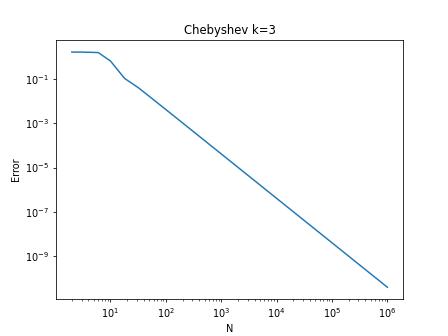
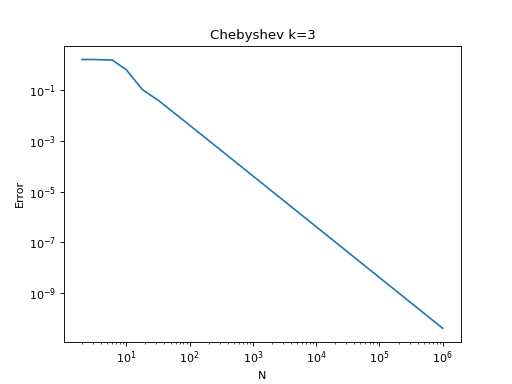
Deploying to master from  @ 42ef7edd94a729cdad58e4e2e1ef403c7aa0caa0 🚀

diff --git a/FunctionIntegrator/index.html b/FunctionIntegrator/index.html
@@ -66,13 +66,13 @@ h400000v40h-400000z'/></svg></span></span></span><span class=vlist-s ></span>
 <p>and the result compared to the analytical solution of <span class=katex ><span class=katex-mathml ><math xmlns="http://www.w3.org/1998/Math/MathML"><semantics><mrow><mn>1</mn></mrow><annotation encoding="application/x-tex">1</annotation></semantics></math></span><span class=katex-html  aria-hidden=true ><span class=base ><span class=strut  style="height:0.64444em;vertical-align:0em;"></span><span class=mord >1</span></span></span></span>. The value being printed is difference between the computed solution and the analytical solution.</p>
 <span class=katex ><span class=katex-mathml ><math xmlns="http://www.w3.org/1998/Math/MathML"><semantics><mrow><mi>k</mi><mo>=</mo><mn>1</mn></mrow><annotation encoding="application/x-tex">k=1</annotation></semantics></math></span><span class=katex-html  aria-hidden=true ><span class=base ><span class=strut  style="height:0.69444em;vertical-align:0em;"></span><span class="mord mathdefault" style="margin-right:0.03148em;">k</span><span class=mspace  style="margin-right:0.2777777777777778em;"></span><span class=mrel >=</span><span class=mspace  style="margin-right:0.2777777777777778em;"></span></span><span class=base ><span class=strut  style="height:0.64444em;vertical-align:0em;"></span><span class=mord >1</span></span></span></span>: <pre><code class="julia hljs"><span class=hljs-keyword >using</span> FunctionIntegrator
 a = abs(chebyshev_quadrature(x -&gt; cos(x), <span class=hljs-number >1000</span>, <span class=hljs-number >1</span>, <span class=hljs-number >0</span>, <span class=hljs-literal >pi</span>/<span class=hljs-number >2</span>) - <span class=hljs-number >1</span>);
-show(a)</code></pre> <pre><code class="plaintext hljs">3.229819232064557e-7</code></pre>
+show(a)</code></pre> <pre><code class="plaintext hljs">3.229819229844111e-7</code></pre>
 <span class=katex ><span class=katex-mathml ><math xmlns="http://www.w3.org/1998/Math/MathML"><semantics><mrow><mi>k</mi><mo>=</mo><mn>2</mn></mrow><annotation encoding="application/x-tex">k=2</annotation></semantics></math></span><span class=katex-html  aria-hidden=true ><span class=base ><span class=strut  style="height:0.69444em;vertical-align:0em;"></span><span class="mord mathdefault" style="margin-right:0.03148em;">k</span><span class=mspace  style="margin-right:0.2777777777777778em;"></span><span class=mrel >=</span><span class=mspace  style="margin-right:0.2777777777777778em;"></span></span><span class=base ><span class=strut  style="height:0.64444em;vertical-align:0em;"></span><span class=mord >2</span></span></span></span>: <pre><code class="julia hljs"><span class=hljs-keyword >using</span> FunctionIntegrator
 a = abs(chebyshev_quadrature(x -&gt; cos(x), <span class=hljs-number >1000</span>, <span class=hljs-number >2</span>, <span class=hljs-number >0</span>, <span class=hljs-literal >pi</span>/<span class=hljs-number >2</span>) - <span class=hljs-number >1</span>);
 show(a)</code></pre> <pre><code class="plaintext hljs">6.446739609922147e-7</code></pre>
 <span class=katex ><span class=katex-mathml ><math xmlns="http://www.w3.org/1998/Math/MathML"><semantics><mrow><mi>k</mi><mo>=</mo><mn>3</mn></mrow><annotation encoding="application/x-tex">k=3</annotation></semantics></math></span><span class=katex-html  aria-hidden=true ><span class=base ><span class=strut  style="height:0.69444em;vertical-align:0em;"></span><span class="mord mathdefault" style="margin-right:0.03148em;">k</span><span class=mspace  style="margin-right:0.2777777777777778em;"></span><span class=mrel >=</span><span class=mspace  style="margin-right:0.2777777777777778em;"></span></span><span class=base ><span class=strut  style="height:0.64444em;vertical-align:0em;"></span><span class=mord >3</span></span></span></span>: <pre><code class="julia hljs"><span class=hljs-keyword >using</span> FunctionIntegrator
 a = abs(chebyshev_quadrature(x -&gt; cos(x), <span class=hljs-number >1000</span>, <span class=hljs-number >3</span>, <span class=hljs-number >0</span>, <span class=hljs-literal >pi</span>/<span class=hljs-number >2</span>) - <span class=hljs-number >1</span>);
-show(a)</code></pre> <pre><code class="plaintext hljs">6.453189426158801e-7</code></pre>
+show(a)</code></pre> <pre><code class="plaintext hljs">6.453189421717909e-7</code></pre>
 <span class=katex ><span class=katex-mathml ><math xmlns="http://www.w3.org/1998/Math/MathML"><semantics><mrow><mi>k</mi><mo>=</mo><mn>4</mn></mrow><annotation encoding="application/x-tex">k=4</annotation></semantics></math></span><span class=katex-html  aria-hidden=true ><span class=base ><span class=strut  style="height:0.69444em;vertical-align:0em;"></span><span class="mord mathdefault" style="margin-right:0.03148em;">k</span><span class=mspace  style="margin-right:0.2777777777777778em;"></span><span class=mrel >=</span><span class=mspace  style="margin-right:0.2777777777777778em;"></span></span><span class=base ><span class=strut  style="height:0.64444em;vertical-align:0em;"></span><span class=mord >4</span></span></span></span>: <pre><code class="julia hljs"><span class=hljs-keyword >using</span> FunctionIntegrator
 a = abs(chebyshev_quadrature(x -&gt; cos(x), <span class=hljs-number >1000</span>, <span class=hljs-number >4</span>, <span class=hljs-number >0</span>, <span class=hljs-literal >pi</span>/<span class=hljs-number >2</span>) - <span class=hljs-number >1</span>);
 show(a)</code></pre> <pre><code class="plaintext hljs">3.226596516636704e-7</code></pre>
@@ -119,7 +119,7 @@ PyPlot.plot(x,y)
 PyPlot.savefig(joinpath(<span class=hljs-meta >@OUTPUT</span>, <span class=hljs-string >&quot;laguerre_plot.png&quot;</span>), dpi=<span class=hljs-number >80</span>)</code></pre> <img src="/assets/FunctionIntegrator/code/output/laguerre_plot.png" alt="">
 <br> <span class=katex ><span class=katex-mathml ><math xmlns="http://www.w3.org/1998/Math/MathML"><semantics><mrow><mi>k</mi><mo>=</mo><mn>1</mn></mrow><annotation encoding="application/x-tex">k=1</annotation></semantics></math></span><span class=katex-html  aria-hidden=true ><span class=base ><span class=strut  style="height:0.69444em;vertical-align:0em;"></span><span class="mord mathdefault" style="margin-right:0.03148em;">k</span><span class=mspace  style="margin-right:0.2777777777777778em;"></span><span class=mrel >=</span><span class=mspace  style="margin-right:0.2777777777777778em;"></span></span><span class=base ><span class=strut  style="height:0.64444em;vertical-align:0em;"></span><span class=mord >1</span></span></span></span>: <pre><code class="julia hljs"><span class=hljs-keyword >using</span> FunctionIntegrator
 a = abs(laguerre_quadrature(x -&gt; x*exp(-x), <span class=hljs-number >100</span>, <span class=hljs-number >1</span>)-<span class=hljs-number >1</span>)
-show(a)</code></pre> <pre><code class="plaintext hljs">3.219646771412954e-15</code></pre>
+show(a)</code></pre> <pre><code class="plaintext hljs">3.1086244689504383e-15</code></pre>
 <span class=katex ><span class=katex-mathml ><math xmlns="http://www.w3.org/1998/Math/MathML"><semantics><mrow><mi>k</mi><mo>=</mo><mn>2</mn></mrow><annotation encoding="application/x-tex">k=2</annotation></semantics></math></span><span class=katex-html  aria-hidden=true ><span class=base ><span class=strut  style="height:0.69444em;vertical-align:0em;"></span><span class="mord mathdefault" style="margin-right:0.03148em;">k</span><span class=mspace  style="margin-right:0.2777777777777778em;"></span><span class=mrel >=</span><span class=mspace  style="margin-right:0.2777777777777778em;"></span></span><span class=base ><span class=strut  style="height:0.64444em;vertical-align:0em;"></span><span class=mord >2</span></span></span></span>: <pre><code class="julia hljs"><span class=hljs-keyword >using</span> FunctionIntegrator
 a = abs(laguerre_quadrature(x -&gt; x, <span class=hljs-number >100</span>, <span class=hljs-number >2</span>)-<span class=hljs-number >1</span>)
 show(a)</code></pre> <pre><code class="plaintext hljs">3.1086244689504383e-15</code></pre>
@@ -130,11 +130,11 @@ show(a)</code></pre> <pre><code class="plaintext hljs">0.0</code></pre>
 <h3 id=lobatto_quadrature ><a href="#lobatto_quadrature">lobatto_quadrature</a></h3>  In this section, integral 1 is being approximated and the result compared to the analytical result. </p>
 <pre><code class="julia hljs"><span class=hljs-keyword >using</span> FunctionIntegrator
 a = abs(lobatto_quadrature(x -&gt; cos(x), <span class=hljs-number >1000</span>, <span class=hljs-number >0</span>, <span class=hljs-literal >pi</span>/<span class=hljs-number >2</span>)-<span class=hljs-number >1</span>)
-show(a)</code></pre> <pre><code class="plaintext hljs">6.661338147750939e-16</code></pre>
+show(a)</code></pre> <pre><code class="plaintext hljs">8.881784197001252e-16</code></pre>
 <h3 id=radau_quadrature ><a href="#radau_quadrature">radau_quadrature</a></h3>  In this section, integral 1 is being approximated and the result compared to the analytical result. </p>
 <pre><code class="julia hljs"><span class=hljs-keyword >using</span> FunctionIntegrator
 a = abs(radau_quadrature(x -&gt; cos(x), <span class=hljs-number >1000</span>, <span class=hljs-number >0</span>, <span class=hljs-literal >pi</span>/<span class=hljs-number >2</span>)-<span class=hljs-number >1</span>)
-show(a)</code></pre> <pre><code class="plaintext hljs">2.220446049250313e-16</code></pre>
+show(a)</code></pre> <pre><code class="plaintext hljs">0.0</code></pre>
 <h3 id=rectangleruleleft ><a href="#rectangleruleleft">rectangle&#95;rule&#95;left</a></h3>  In this section, integral 1 is being approximated and the result compared to the analytical result. </p>
 <pre><code class="julia hljs"><span class=hljs-keyword >using</span> FunctionIntegrator
 a = abs(rectangle_rule_left(x -&gt; cos(x), <span class=hljs-number >1000</span>, <span class=hljs-number >0</span>, <span class=hljs-literal >pi</span>/<span class=hljs-number >2</span>)-<span class=hljs-number >1</span>)
@@ -197,7 +197,7 @@ xscale(<span class=hljs-string >&quot;log&quot;</span>)
 xlabel(<span class=hljs-string >&quot;N&quot;</span>)
 yscale(<span class=hljs-string >&quot;log&quot;</span>)
 ylabel(<span class=hljs-string >&quot;Error&quot;</span>)
-PyPlot.savefig(joinpath(<span class=hljs-meta >@OUTPUT</span>, <span class=hljs-string >&quot;chebyshev1_error_plot.png&quot;</span>), dpi=<span class=hljs-number >70</span>)
+PyPlot.savefig(joinpath(<span class=hljs-meta >@OUTPUT</span>, <span class=hljs-string >&quot;chebyshev1_error_plot.png&quot;</span>), dpi=<span class=hljs-number >80</span>)
 PyPlot.figure(<span class=hljs-number >2</span>)
 PyPlot.clf()
 PyPlot.plot(nc, chebyshev2_error); 
@@ -206,7 +206,7 @@ xscale(<span class=hljs-string >&quot;log&quot;</span>)
 xlabel(<span class=hljs-string >&quot;N&quot;</span>)
 yscale(<span class=hljs-string >&quot;log&quot;</span>)
 ylabel(<span class=hljs-string >&quot;Error&quot;</span>)
-PyPlot.savefig(joinpath(<span class=hljs-meta >@OUTPUT</span>, <span class=hljs-string >&quot;chebyshev2_error_plot.png&quot;</span>), dpi=<span class=hljs-number >70</span>)
+PyPlot.savefig(joinpath(<span class=hljs-meta >@OUTPUT</span>, <span class=hljs-string >&quot;chebyshev2_error_plot.png&quot;</span>), dpi=<span class=hljs-number >80</span>)
 PyPlot.figure(<span class=hljs-number >3</span>)
 PyPlot.clf()
 PyPlot.plot(nc, chebyshev3_error); 
@@ -215,7 +215,7 @@ xscale(<span class=hljs-string >&quot;log&quot;</span>)
 xlabel(<span class=hljs-string >&quot;N&quot;</span>)
 yscale(<span class=hljs-string >&quot;log&quot;</span>)
 ylabel(<span class=hljs-string >&quot;Error&quot;</span>)
-PyPlot.savefig(joinpath(<span class=hljs-meta >@OUTPUT</span>, <span class=hljs-string >&quot;chebyshev3_error_plot.png&quot;</span>), dpi=<span class=hljs-number >70</span>)
+PyPlot.savefig(joinpath(<span class=hljs-meta >@OUTPUT</span>, <span class=hljs-string >&quot;chebyshev3_error_plot.png&quot;</span>), dpi=<span class=hljs-number >80</span>)
 PyPlot.figure(<span class=hljs-number >4</span>)
 PyPlot.clf()
 PyPlot.plot(nc, chebyshev4_error)
@@ -224,7 +224,7 @@ xscale(<span class=hljs-string >&quot;log&quot;</span>)
 xlabel(<span class=hljs-string >&quot;N&quot;</span>)
 yscale(<span class=hljs-string >&quot;log&quot;</span>)
 ylabel(<span class=hljs-string >&quot;Error&quot;</span>)
-PyPlot.savefig(joinpath(<span class=hljs-meta >@OUTPUT</span>, <span class=hljs-string >&quot;chebyshev4_error_plot.png&quot;</span>), dpi=<span class=hljs-number >70</span>)
+PyPlot.savefig(joinpath(<span class=hljs-meta >@OUTPUT</span>, <span class=hljs-string >&quot;chebyshev4_error_plot.png&quot;</span>), dpi=<span class=hljs-number >80</span>)
 PyPlot.figure(<span class=hljs-number >5</span>)
 PyPlot.clf()
 PyPlot.plot(nc, jacobi_error)
@@ -233,7 +233,7 @@ xscale(<span class=hljs-string >&quot;log&quot;</span>)
 xlabel(<span class=hljs-string >&quot;N&quot;</span>)
 yscale(<span class=hljs-string >&quot;log&quot;</span>)
 ylabel(<span class=hljs-string >&quot;Error&quot;</span>)
-PyPlot.savefig(joinpath(<span class=hljs-meta >@OUTPUT</span>, <span class=hljs-string >&quot;jacobi_error_plot.png&quot;</span>), dpi=<span class=hljs-number >70</span>)
+PyPlot.savefig(joinpath(<span class=hljs-meta >@OUTPUT</span>, <span class=hljs-string >&quot;jacobi_error_plot.png&quot;</span>), dpi=<span class=hljs-number >80</span>)
 PyPlot.figure(<span class=hljs-number >6</span>)
 PyPlot.clf()
 PyPlot.plot(nc, laguerre_error)
@@ -242,7 +242,7 @@ xscale(<span class=hljs-string >&quot;log&quot;</span>)
 xlabel(<span class=hljs-string >&quot;N&quot;</span>)
 yscale(<span class=hljs-string >&quot;log&quot;</span>)
 ylabel(<span class=hljs-string >&quot;Error&quot;</span>)
-PyPlot.savefig(joinpath(<span class=hljs-meta >@OUTPUT</span>, <span class=hljs-string >&quot;laguerre_error_plot.png&quot;</span>), dpi=<span class=hljs-number >70</span>)
+PyPlot.savefig(joinpath(<span class=hljs-meta >@OUTPUT</span>, <span class=hljs-string >&quot;laguerre_error_plot.png&quot;</span>), dpi=<span class=hljs-number >80</span>)
 PyPlot.figure(<span class=hljs-number >7</span>)
 PyPlot.clf()
 PyPlot.plot(nc, legendre_error)
@@ -251,7 +251,7 @@ xscale(<span class=hljs-string >&quot;log&quot;</span>)
 xlabel(<span class=hljs-string >&quot;N&quot;</span>)
 yscale(<span class=hljs-string >&quot;log&quot;</span>)
 ylabel(<span class=hljs-string >&quot;Error&quot;</span>)
-PyPlot.savefig(joinpath(<span class=hljs-meta >@OUTPUT</span>, <span class=hljs-string >&quot;legendre_error_plot.png&quot;</span>), dpi=<span class=hljs-number >70</span>)
+PyPlot.savefig(joinpath(<span class=hljs-meta >@OUTPUT</span>, <span class=hljs-string >&quot;legendre_error_plot.png&quot;</span>), dpi=<span class=hljs-number >80</span>)
 PyPlot.figure(<span class=hljs-number >8</span>)
 PyPlot.clf()
 PyPlot.plot(nc, lobatto_error)
@@ -260,7 +260,7 @@ xscale(<span class=hljs-string >&quot;log&quot;</span>)
 xlabel(<span class=hljs-string >&quot;N&quot;</span>)
 yscale(<span class=hljs-string >&quot;log&quot;</span>)
 ylabel(<span class=hljs-string >&quot;Error&quot;</span>)
-PyPlot.savefig(joinpath(<span class=hljs-meta >@OUTPUT</span>, <span class=hljs-string >&quot;lobatto_error_plot.png&quot;</span>), dpi=<span class=hljs-number >70</span>)
+PyPlot.savefig(joinpath(<span class=hljs-meta >@OUTPUT</span>, <span class=hljs-string >&quot;lobatto_error_plot.png&quot;</span>), dpi=<span class=hljs-number >80</span>)
 PyPlot.figure(<span class=hljs-number >9</span>)
 PyPlot.clf()
 PyPlot.plot(nc, radau_error)
@@ -269,7 +269,7 @@ xscale(<span class=hljs-string >&quot;log&quot;</span>)
 xlabel(<span class=hljs-string >&quot;N&quot;</span>)
 yscale(<span class=hljs-string >&quot;log&quot;</span>)
 ylabel(<span class=hljs-string >&quot;Error&quot;</span>)
-PyPlot.savefig(joinpath(<span class=hljs-meta >@OUTPUT</span>, <span class=hljs-string >&quot;radau_error_plot.png&quot;</span>), dpi=<span class=hljs-number >70</span>)
+PyPlot.savefig(joinpath(<span class=hljs-meta >@OUTPUT</span>, <span class=hljs-string >&quot;radau_error_plot.png&quot;</span>), dpi=<span class=hljs-number >80</span>)
 PyPlot.figure(<span class=hljs-number >10</span>)
 PyPlot.clf()
 PyPlot.plot(nc, rectangle_left_error)
@@ -278,7 +278,7 @@ xscale(<span class=hljs-string >&quot;log&quot;</span>)
 xlabel(<span class=hljs-string >&quot;N&quot;</span>)
 yscale(<span class=hljs-string >&quot;log&quot;</span>)
 ylabel(<span class=hljs-string >&quot;Error&quot;</span>)
-PyPlot.savefig(joinpath(<span class=hljs-meta >@OUTPUT</span>, <span class=hljs-string >&quot;rectangle_left_error_plot.png&quot;</span>), dpi=<span class=hljs-number >70</span>)
+PyPlot.savefig(joinpath(<span class=hljs-meta >@OUTPUT</span>, <span class=hljs-string >&quot;rectangle_left_error_plot.png&quot;</span>), dpi=<span class=hljs-number >80</span>)
 PyPlot.figure(<span class=hljs-number >11</span>)
 PyPlot.clf()
 PyPlot.plot(nc, rectangle_midpoint_error)
@@ -287,7 +287,7 @@ xscale(<span class=hljs-string >&quot;log&quot;</span>)
 xlabel(<span class=hljs-string >&quot;N&quot;</span>)
 yscale(<span class=hljs-string >&quot;log&quot;</span>)
 ylabel(<span class=hljs-string >&quot;Error&quot;</span>)
-PyPlot.savefig(joinpath(<span class=hljs-meta >@OUTPUT</span>, <span class=hljs-string >&quot;rectangle_midpoint_error_plot.png&quot;</span>), dpi=<span class=hljs-number >70</span>)
+PyPlot.savefig(joinpath(<span class=hljs-meta >@OUTPUT</span>, <span class=hljs-string >&quot;rectangle_midpoint_error_plot.png&quot;</span>), dpi=<span class=hljs-number >80</span>)
 PyPlot.figure(<span class=hljs-number >12</span>)
 PyPlot.clf()
 PyPlot.plot(nc, rectangle_right_error)
@@ -296,7 +296,7 @@ xscale(<span class=hljs-string >&quot;log&quot;</span>)
 xlabel(<span class=hljs-string >&quot;N&quot;</span>)
 yscale(<span class=hljs-string >&quot;log&quot;</span>)
 ylabel(<span class=hljs-string >&quot;Error&quot;</span>)
-PyPlot.savefig(joinpath(<span class=hljs-meta >@OUTPUT</span>, <span class=hljs-string >&quot;rectangle_right_error_plot.png&quot;</span>), dpi=<span class=hljs-number >70</span>)
+PyPlot.savefig(joinpath(<span class=hljs-meta >@OUTPUT</span>, <span class=hljs-string >&quot;rectangle_right_error_plot.png&quot;</span>), dpi=<span class=hljs-number >80</span>)
 PyPlot.figure(<span class=hljs-number >13</span>)
 PyPlot.clf()
 PyPlot.plot(nc, simpsons_error)
@@ -305,7 +305,7 @@ xscale(<span class=hljs-string >&quot;log&quot;</span>)
 xlabel(<span class=hljs-string >&quot;N&quot;</span>)
 yscale(<span class=hljs-string >&quot;log&quot;</span>)
 ylabel(<span class=hljs-string >&quot;Error&quot;</span>)
-PyPlot.savefig(joinpath(<span class=hljs-meta >@OUTPUT</span>, <span class=hljs-string >&quot;simpsons_error_plot.png&quot;</span>), dpi=<span class=hljs-number >70</span>)
+PyPlot.savefig(joinpath(<span class=hljs-meta >@OUTPUT</span>, <span class=hljs-string >&quot;simpsons_error_plot.png&quot;</span>), dpi=<span class=hljs-number >80</span>)
 PyPlot.figure(<span class=hljs-number >14</span>)
 PyPlot.clf()
 PyPlot.plot(nc, trapezoidal_error)
@@ -314,7 +314,7 @@ xscale(<span class=hljs-string >&quot;log&quot;</span>)
 xlabel(<span class=hljs-string >&quot;N&quot;</span>)
 yscale(<span class=hljs-string >&quot;log&quot;</span>)
 ylabel(<span class=hljs-string >&quot;Error&quot;</span>)
-PyPlot.savefig(joinpath(<span class=hljs-meta >@OUTPUT</span>, <span class=hljs-string >&quot;trapezoidal_error_plot.png&quot;</span>), dpi=<span class=hljs-number >70</span>)</code></pre>
+PyPlot.savefig(joinpath(<span class=hljs-meta >@OUTPUT</span>, <span class=hljs-string >&quot;trapezoidal_error_plot.png&quot;</span>), dpi=<span class=hljs-number >80</span>)</code></pre>
 <h3 id=plots ><a href="#plots">Plots</a></h3>  <img src="/assets/FunctionIntegrator/code/output/chebyshev1_error_plot.png" alt=""> <img src="/assets/FunctionIntegrator/code/output/chebyshev2_error_plot.png" alt=""> <img src="/assets/FunctionIntegrator/code/output/chebyshev3_error_plot.png" alt=""> <img src="/assets/FunctionIntegrator/code/output/chebyshev4_error_plot.png" alt=""> <img src="/assets/FunctionIntegrator/code/output/jacobi_error_plot.png" alt=""> <img src="/assets/FunctionIntegrator/code/output/laguerre_error_plot.png" alt=""> <img src="/assets/FunctionIntegrator/code/output/legendre_error_plot.png" alt=""> <img src="/assets/FunctionIntegrator/code/output/lobatto_error_plot.png" alt=""> <img src="/assets/FunctionIntegrator/code/output/radau_error_plot.png" alt=""> <img src="/assets/FunctionIntegrator/code/output/rectangle_left_error_plot.png" alt=""> <img src="/assets/FunctionIntegrator/code/output/rectangle_midpoint_error_plot.png" alt=""> <img src="/assets/FunctionIntegrator/code/output/rectangle_right_error_plot.png" alt=""> <img src="/assets/FunctionIntegrator/code/output/simpsons_error_plot.png" alt=""> <img src="/assets/FunctionIntegrator/code/output/trapezoidal_error_plot.png" alt="">
 <h2 id=acknowledgements ><a href="#acknowledgements">Acknowledgements</a></h2>  I would like to thank the Julia discourse community for their help through my Julia journey, and I would also like to thank the developers of Julia, as without their work this package would not even be possible &#40;I know, obviously, as this is a Julia package&#41;. Likewise, I would also like to thank the developers of <a href="https://github.com/JuliaApproximation/FastGaussQuadrature.jl">FastGaussQuadrature.jl</a>, as without their efficient algorithms for finding the nodes and weights for various Gaussian quadrature techniques, several of the functions in this repository would be far less efficient &#40;especially <code>legendre_quadrature</code>&#41;, or may not even exist. I would also like to thank the developers of <a href="https://github.com/JuliaMath/SpecialFunctions.jl">SpecialFunctions.jl</a>, as some of their functions are useful for testing the functions in this package.</p>
 <div class=page-foot >
